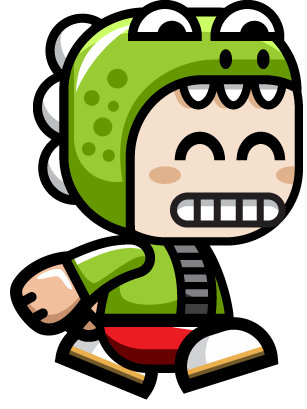
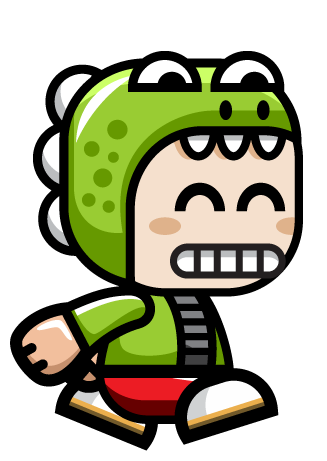
added dizzy animation and modified the rest to match the dizzy frame size. Show dizzy when failing

diff --git a/pyGameTest.py b/pyGameTest.py
@@ -36,6 +36,7 @@ class Staff(pygame.sprite.Sprite):
 
     notes = [] # 'c', 'd', 'e', 'f', 'g', 'a', 'b']
     size = []
+    position = (0,0)
 
     def drawme(self):
         self.image.fill((250,250,250))
@@ -94,6 +95,7 @@ class Staff(pygame.sprite.Sprite):
 class Keyboard(pygame.sprite.Sprite):
 
     notes = [] # 'c', 'd', 'e', 'f', 'g', 'a', 'b']
+    position = (0,0)
 
     def drawme(self):
         self.image.fill((250,250,250))
@@ -147,6 +149,7 @@ class Keyboard(pygame.sprite.Sprite):
 class NoteName(pygame.sprite.Sprite):
 
     notes = [] # 'c', 'd', 'e', 'f', 'g', 'a', 'b']
+    position = (0,0)
 
     def drawme(self):
         self.image = pygame.Surface([300, 180], flags=pygame.SRCALPHA)
@@ -192,20 +195,35 @@ class NoteName(pygame.sprite.Sprite):
 class Mascot(pygame.sprite.Sprite):
     idleImage = []
     runImage = []
+    dizzyImage = []
+    position = (0,0)
+    targetPosition = (0,0)
+    dizzyTime = 0
     def drawme(self):
         self.image.fill((255,255,255,0))
         if self.state == 0:
             self.image.blit(self.idleImage[int(self.step)], (0,0))
-        else:
+        elif self.state == 1:
             self.image.blit(self.runImage[int(self.step)], (0,0))
+        elif self.state == 2:
+            self.image.blit(self.dizzyImage[int(self.step)], (0,0))            
 
     def run(self):
         self.state = 1
-        self.step = 0
+#        self.step = 0
 
     def idle(self):
         self.state = 0
-        self.step = 0
+#        self.step = 0
+
+    def dizzy(self):
+        self.state = 2
+#        self.step = 0
+
+    def moveTo(self, x, y):
+        if ((self.position[0] != self.targetPosition[0]) or (self.position[1] != self.targetPosition[1])) and (self.state == 0):
+            self.run()
+        self.targetPosition = (x, y)
 
     def __init__(self):
         pygame.sprite.Sprite.__init__(self)
@@ -213,10 +231,14 @@ class Mascot(pygame.sprite.Sprite):
         self.idleImage.append(load_image("frame-2.png", "./idle", alpha=True, scale=0.25))
         self.idleImage.append(load_image("frame-1.png", "./idle", alpha=True, scale=0.25))
         self.idleImage.append(load_image("frame-2.png", "./idle", alpha=True, scale=0.25))
-        self.runImage.append(load_image("run/frame-1.png", "./", alpha=True, scale=0.25))
-        self.runImage.append(load_image("run/frame-2.png", "./", alpha=True, scale=0.25))
-        self.runImage.append(load_image("run/frame-3.png", "./", alpha=True, scale=0.25))
-        self.runImage.append(load_image("run/frame-4.png", "./", alpha=True, scale=0.25))
+        self.runImage.append(load_image("frame-1.png", "./run", alpha=True, scale=0.25))
+        self.runImage.append(load_image("frame-2.png", "./run", alpha=True, scale=0.25))
+        self.runImage.append(load_image("frame-3.png", "./run", alpha=True, scale=0.25))
+        self.runImage.append(load_image("frame-4.png", "./run", alpha=True, scale=0.25))
+        self.dizzyImage.append(load_image("frame-1.png", "./dizzy", alpha=True, scale=0.25))
+        self.dizzyImage.append(load_image("frame-2.png", "./dizzy", alpha=True, scale=0.25))
+        self.dizzyImage.append(load_image("frame-1.png", "./dizzy", alpha=True, scale=0.25))
+        self.dizzyImage.append(load_image("frame-2.png", "./dizzy", alpha=True, scale=0.25))
         self.state = 0 # idle
         # self.state = 1 # run
         self.step = 0
@@ -225,7 +247,7 @@ class Mascot(pygame.sprite.Sprite):
 
 
     def update(self):
-        newStep = self.step + 0.1
+        newStep = self.step + 0.09
         if newStep >= 4:
             newStep = 0
 
@@ -235,6 +257,25 @@ class Mascot(pygame.sprite.Sprite):
         else:
             self.step = newStep
 
+        if self.state == 2:
+            if self.dizzyTime < 40:
+                self.dizzyTime = self.dizzyTime + 1
+            else:
+                self.dizzyTime = 0
+                self.state = 0
+
+        else:
+            if self.position[0] < self.targetPosition[0]:
+                self.position = (self.position[0] + 1, self.position[1])
+
+            if self.position[1] < self.targetPosition[1]:
+                self.position = (self.position[0], self.position[1] + 1)
+
+            if self.position[1] > self.targetPosition[1]:
+                self.position = (self.position[0], self.position[1] - 1)
+
+            if (self.position[0] == self.targetPosition[0]) and (self.position[1] == self.targetPosition[1]) and (self.state != 0):
+                self.idle()
 
 
 def main():
@@ -291,17 +332,17 @@ def main():
     notename = NoteName()
     mascot = Mascot()
 
-    staff_position = (20 + notename.rect.width/2 - staff.rect.width/2,20)
-    keyboard_position = (20 + 20 + notename.rect.width, 20 + staff.rect.height/2 - keyboard.rect.height/2)
-    notename_position = (20,staff.rect.height + 40)
-    mascot_position = (20, 580)
+    staff.position = (20 + notename.rect.width/2 - staff.rect.width/2,20)
+    keyboard.position = (20 + 20 + notename.rect.width, 20 + staff.rect.height/2 - keyboard.rect.height/2)
+    notename.position = (20,staff.rect.height + 40)
+    mascot.position = (20, 580)
 
     screen.blit(background, (0,0))
     screen.blit(background_green, (0,0))
-    screen.blit(staff.image, staff_position)
-    screen.blit(keyboard.image, keyboard_position)
-    screen.blit(notename.image, notename_position)
-    screen.blit(mascot.image, mascot_position)
+    screen.blit(staff.image, staff.position)
+    screen.blit(keyboard.image, keyboard.position)
+    screen.blit(notename.image, notename.position)
+    screen.blit(mascot.image, mascot.position)
 
     pygame.display.flip()
 
@@ -310,6 +351,7 @@ def main():
     changed = 0
     failure = 0
 
+#    mascot.moveTo(900, 580)
 
     while True:
         if changed != 0:
@@ -325,6 +367,7 @@ def main():
         keyboard.notes = current_notes
         notename.notes = current_notes
 
+        mascot.moveTo(((1024-200)/len(data["steps"]))*i+20, 580)
         staff.update()
         keyboard.update()
         notename.update()
@@ -337,39 +380,43 @@ def main():
             background_green.set_alpha(255*changed/CHANGE_LOOPS)
             screen.blit(background_green, (0,0))
 
-        screen.blit(staff.image, staff_position)
-        screen.blit(keyboard.image, keyboard_position)
-        screen.blit(notename.image, (20,staff.rect.height + 40))
-        screen.blit(mascot.image, mascot_position)
+        screen.blit(staff.image, staff.position)
+        screen.blit(keyboard.image, keyboard.position)
+        screen.blit(notename.image, notename.position)
+        screen.blit(mascot.image, mascot.position)
 
         pygame.display.flip()
 
-        for event in pygame.event.get():
-            if event.type == pygame.QUIT:
-                sys.exit()
-            if event.type == pygame.KEYDOWN:
-                keyFound = 0
-                for theNote in current_notes:
-                    if event.key == keyArray[theNote]:
-                        i = i + 1
-                        changed = CHANGE_LOOPS
-                        failure = 0                        
-                        keyFound = 1
-                if keyFound == 0:
-                    if event.key == pygame.K_LEFT:
-                        if i - 1 >= 0:
-                            i = i - 1
+        if changed == 0:
+            for event in pygame.event.get():
+                if event.type == pygame.QUIT:
+                    sys.exit()
+                if event.type == pygame.KEYDOWN:
+                    keyFound = 0
+
+                    for theNote in current_notes:
+                        if event.key == keyArray[theNote]:
+                            i = i + 1
+                            changed = CHANGE_LOOPS
+                            failure = 0                        
+                            keyFound = 1
+                    if keyFound == 0:
+                        if event.key == pygame.K_LEFT:
+                            if i - 1 >= 0:
+                                i = i - 1
+                                changed = CHANGE_LOOPS
+                                failure = 1                            
+
+                        elif event.key == pygame.K_RIGHT:
+                            if i + 1 < len(data["steps"]):
+                                i = i + 1
+                            changed = CHANGE_LOOPS
+                            failure = 0
+                            mascot.run()
+                        else:
                             changed = CHANGE_LOOPS
                             failure = 1
-
-                    elif event.key == pygame.K_RIGHT:
-                        if i + 1 < len(data["steps"]):
-                            i = i + 1
-                        changed = CHANGE_LOOPS
-                        failure = 0
-                    else:
-                        changed = CHANGE_LOOPS
-                        failure = 1
+                            mascot.dizzy()
 
 
 
